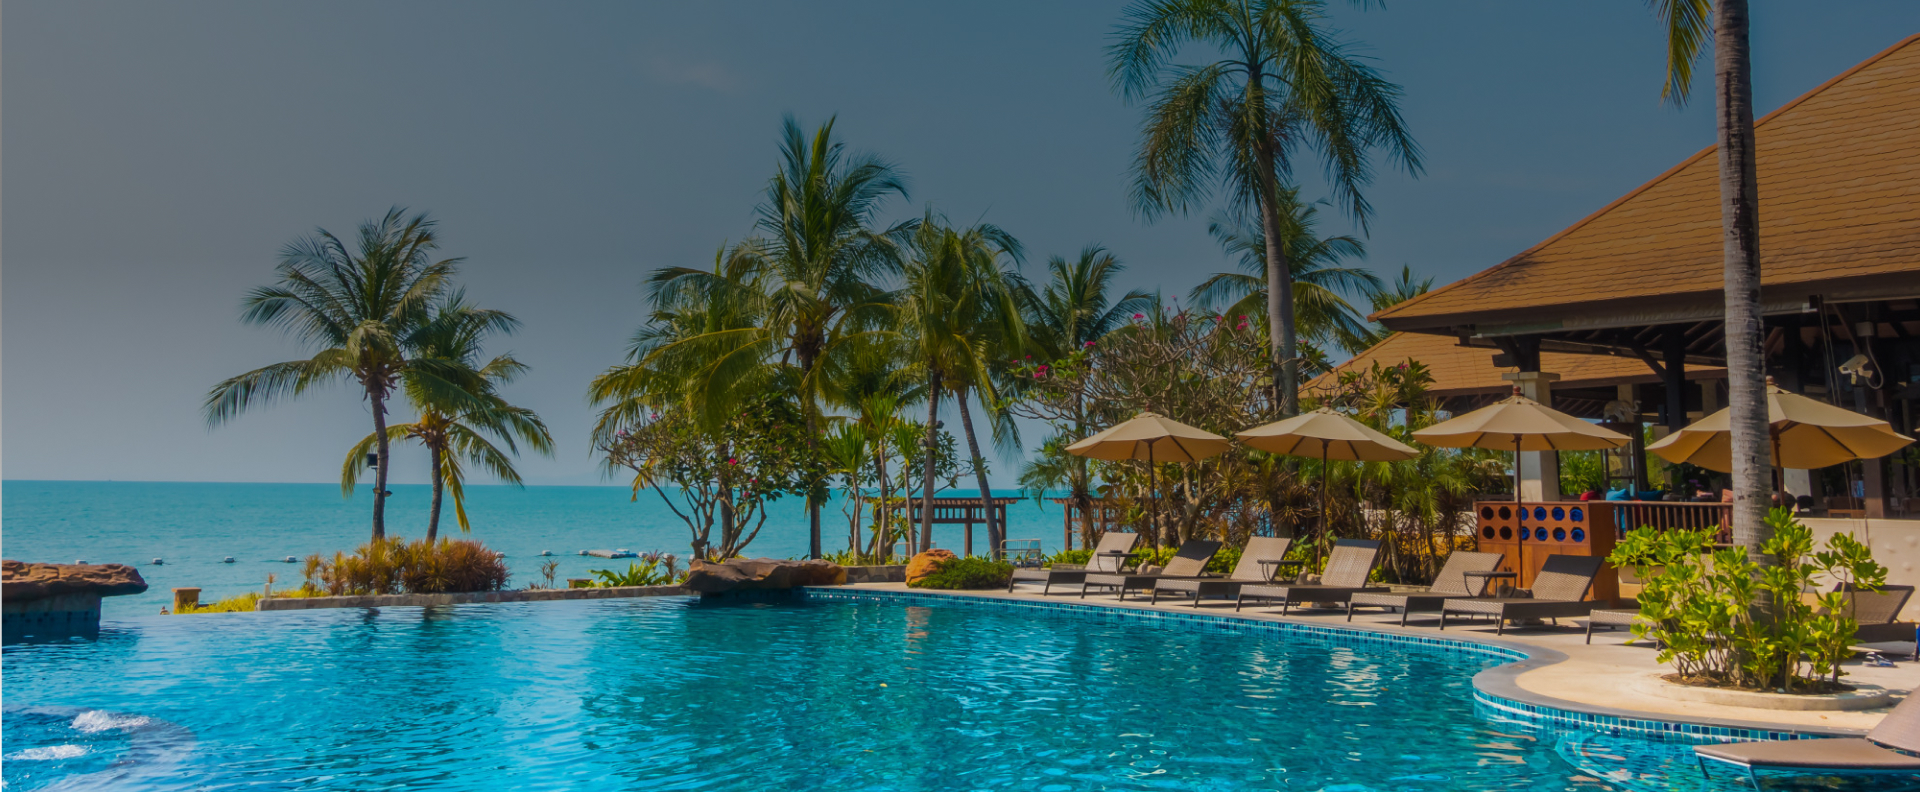
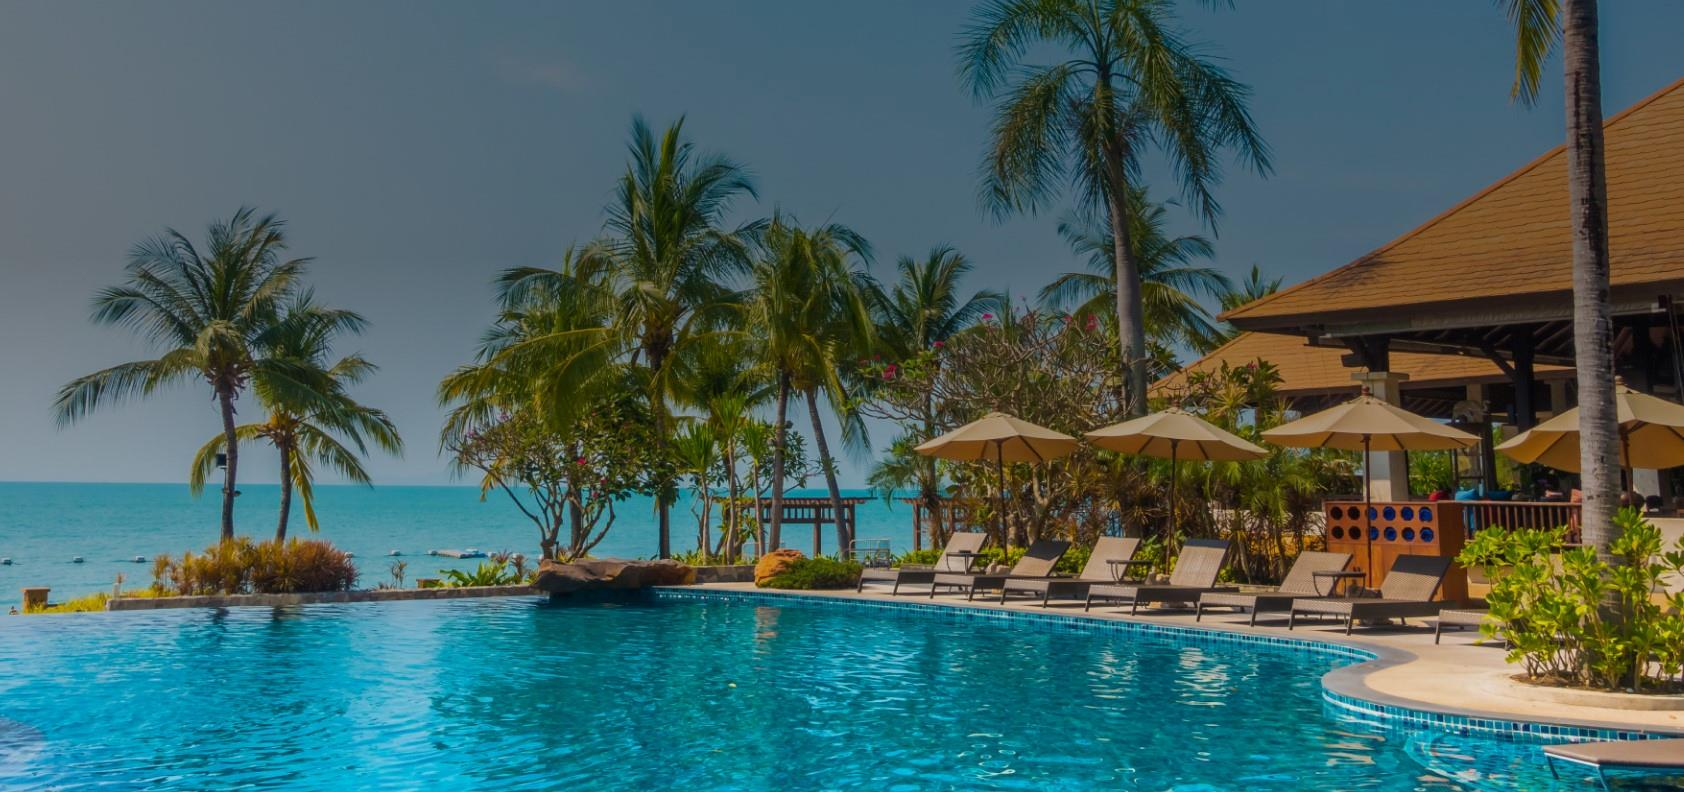
redimensionando imagens para mais performance

diff --git a/style.css b/style.css
@@ -65,15 +65,15 @@ header {
 }
 
 #card1 {
- background-image: url(assets/imgs/cards/card-1.png);
+ background-image: url(assets/imgs/cards/card-1.jpg);
 }
 
 #card2 {
- background-image: url(assets/imgs/cards/card-2.png);
+ background-image: url(assets/imgs/cards/card-2.jpg);
 }
 
 #card3 {
- background-image: url(assets/imgs/cards/card-3.png);
+ background-image: url(assets/imgs/cards/card-3.jpg);
 }
 
 .txt-card {
@@ -113,7 +113,7 @@ header {
 }
 
 .card-oferta-header {
- background-image: url(assets/imgs/cards/card-oferta-1.jpeg);
+ background-image: url(assets/imgs/cards/card-oferta-1.jpg);
  background-position: center;
  width: 100%;
  height: 12.5rem;
@@ -165,43 +165,43 @@ header {
 }
 
 #cardOferta2 {
- background: url(assets/imgs/cards/card-oferta-2.jpeg);
+ background: url(assets/imgs/cards/card-oferta-2.jpg);
  background-position: center;
  background-size: cover;
 }
 
 #cardOferta3 {
- background: url(assets/imgs/cards/card-oferta-3.jpeg);
+ background: url(assets/imgs/cards/card-oferta-3.jpg);
  background-position: center;
  background-size: cover;
 }
 
 #cardOferta4 {
- background: url(assets/imgs/cards/card-oferta-4.jpeg);
+ background: url(assets/imgs/cards/card-oferta-4.jpg);
  background-position: center;
  background-size: cover;
 }
 
 #cardOferta5 {
- background: url(assets/imgs/cards/card-oferta-5.jpeg);
+ background: url(assets/imgs/cards/card-oferta-5.jpg);
  background-position: center;
  background-size: cover;
 }
 
 #cardOferta6 {
- background: url(assets/imgs/cards/card-oferta-6.jpeg);
+ background: url(assets/imgs/cards/card-oferta-6.jpg);
  background-position: center;
  background-size: cover;
 }
 
 #cardOferta7 {
- background: url(assets/imgs/cards/card-oferta-7.jpeg);
+ background: url(assets/imgs/cards/card-oferta-7.jpg);
  background-position: center;
  background-size: cover;
 }
 
 #cardOferta8 {
- background: url(assets/imgs/cards/card-oferta-8.jpeg);
+ background: url(assets/imgs/cards/card-oferta-8.jpg);
  background-position: center;
  background-size: cover;
 }
